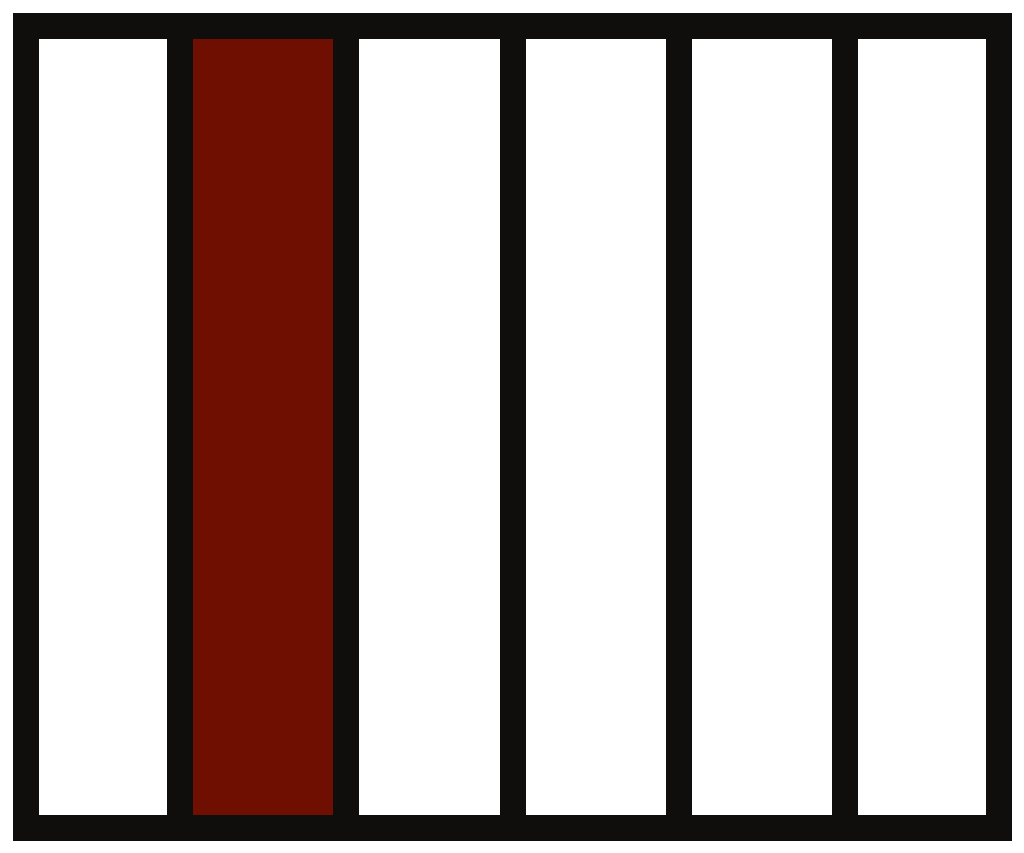
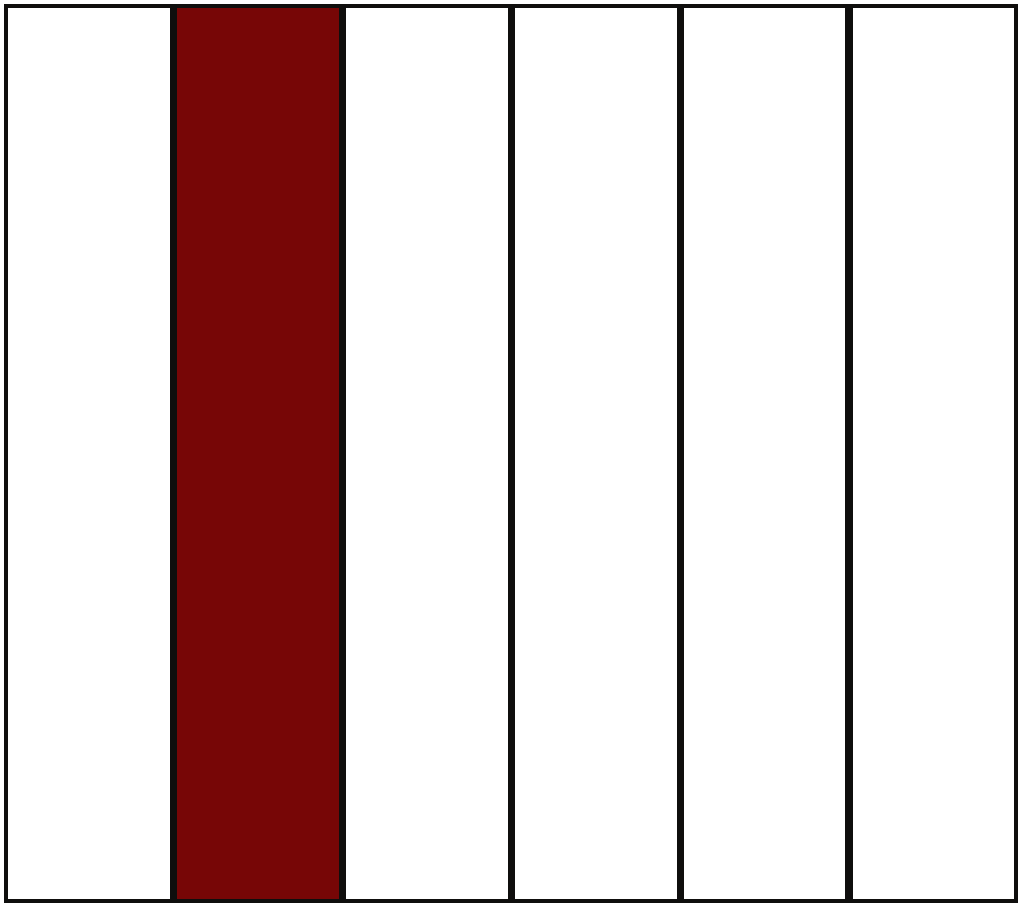
Correct the mark to match the real artwork
Nick supplied the source SVG, which showed my earlier reconstruction was wrong
in three ways. Measured off the artwork rather than inferred:

- Aspect ratio is 1.127:1, not the 1.2:1 taken from the old CSS — a 6.5% error.
  Applied to the nav, hero and quote marks.
- The mark is six separate stroked rectangles, not one box with single internal
  dividers. Adjacent strokes double up, so the internal lines read heavier than
  the outer edge. The CSS now gives each bar its own border to match.
- The brand red is #770606, not the #6F0F01 the site was using.

brand/mark-source.svg is the artwork as exported and is the source of truth;
every other asset is derived from its coordinates. Removed the earlier
wrong-geometry files rather than leaving them to be picked up by mistake.

The favicon is redrawn at the correct proportions with the stroke thickened, as
the artwork's 3px stroke is 0.37% of its width and would vanish at 16px.

Two things the artwork raises, noted in the README rather than decided here: the
artwork strokes are #FEFEFE while the site's --paper is the warmer #F4EFE6, and
the stroke weight cannot scale to nav size, so the site's mark is necessarily a
heavier small-size adaptation.

Still outstanding: the source SVG is mark-only, so the lockups await the
wordmark's typeface and tracking.

Claude-Session: https://claude.ai/code/session_01JhBBogzNpLh4f6KTUY3Wqj

Changed region(s): [[0.0, 0.0, 1.0, 1.0]]

diff --git a/index.html b/index.html
@@ -47,7 +47,7 @@
 <style>
 :root{
   --ink:#0F0E0D; --ink-soft:#1A1917; --paper:#F4EFE6;
-  --oxblood:#6F0F01;          /* fills only — 1.6:1 on ink, never use for text */
+  --oxblood:#770606;          /* from the logo artwork. Fills only — never use for text */
   --ember:#D4552F;            /* text + focus accent — 4.72:1 on ink, WCAG AA */
   --line:#332F29; --muted:#9C978C;
   --font-display:'Instrument Sans',sans-serif; --font-body:'Inter',sans-serif;
@@ -72,9 +72,8 @@ h1,h2,h3{font-family:var(--font-display);font-weight:700;letter-spacing:-.02em;l
 .skip:focus{top:16px}
 
 /* BAR DEVICE — six equal bars, only #2 filled oxblood */
-.bars{display:flex;border:1px solid var(--paper)}
-.bars>span{flex:1;border-right:1px solid var(--paper)}
-.bars>span:last-child{border-right:none}
+.bars{display:flex}
+.bars>span{flex:1;border:1px solid var(--paper)}
 .bars>span.lit{background:var(--oxblood)}
 
 .topstrip{position:fixed;top:0;left:0;right:0;height:5px;display:flex;z-index:101}
@@ -91,7 +90,7 @@ h1,h2,h3{font-family:var(--font-display);font-weight:700;letter-spacing:-.02em;l
 .nav.scrolled{background:rgba(15,14,13,.92);backdrop-filter:blur(10px);padding:19px 0 14px;border-bottom:1px solid var(--line)}
 .nav-inner{display:flex;align-items:center;justify-content:space-between;gap:24px}
 .nav-mark{display:flex;align-items:center;gap:12px}
-.nav-mark .bars{width:22px;height:18px;flex:none}
+.nav-mark .bars{width:22px;height:19.5px;flex:none}
 .nav-mark .word{font-family:var(--font-display);font-weight:700;font-size:16px;letter-spacing:-.01em}
 .nav-links{display:flex;align-items:center;gap:34px}
 .nav-links a{font-size:13px;color:rgba(244,239,230,.85);transition:color .15s ease}
@@ -121,7 +120,7 @@ h1,h2,h3{font-family:var(--font-display);font-weight:700;letter-spacing:-.02em;l
 .hero-video .poster{position:absolute;inset:0;background-color:#181613;background-image:radial-gradient(90% 70% at 50% 0%,#181613 0%,var(--ink) 60%),url("media/hero-poster.jpg");background-size:cover,cover;background-position:center,center;background-blend-mode:normal}
 .hero-overlay{position:absolute;inset:0;background:linear-gradient(180deg,rgba(15,14,13,.5) 0%,rgba(15,14,13,.3) 42%,rgba(15,14,13,.8) 100%)}
 .hero-inner{position:relative;z-index:2;text-align:center;max-width:900px;margin:0 auto}
-.hero .bars{width:120px;height:100px;margin:0 auto 40px}
+.hero .bars{width:120px;height:106.5px;margin:0 auto 40px}
 .hero h1{font-size:clamp(2.6rem,7vw,5.2rem);margin-bottom:28px}
 .hero .lede{color:#C9C4BA;font-size:clamp(1rem,1.6vw,1.2rem);max-width:46ch;margin:0 auto 44px}
 .hero-ctas{display:flex;gap:14px;justify-content:center;flex-wrap:wrap}
@@ -168,7 +167,7 @@ section{position:relative;border-top:1px solid var(--line)}
 
 /* QUOTE */
 .quote-box{max-width:820px;margin:0 auto;text-align:center}
-.quote-box .mark{width:44px;height:36px;margin:0 auto 24px}
+.quote-box .mark{width:44px;height:39px;margin:0 auto 24px}
 .quote-box blockquote{font-family:var(--font-display);font-weight:600;font-size:clamp(1.3rem,2.8vw,1.9rem);line-height:1.4;letter-spacing:-.01em;margin-bottom:26px}
 .quote-box figcaption{font-size:13px;letter-spacing:.06em;color:var(--muted)}
 .quote-box figcaption b{color:var(--paper);font-weight:600}

diff --git a/films.html b/films.html
@@ -18,7 +18,7 @@
 <link rel="preconnect" href="https://fonts.gstatic.com" crossorigin>
 <link href="https://fonts.googleapis.com/css2?family=Instrument+Sans:wght@600;700&family=Inter:wght@400;600&display=swap" rel="stylesheet">
 <style>
-:root{--ink:#0F0E0D;--paper:#F4EFE6;--oxblood:#6F0F01;--ember:#D4552F;--line:#332F29;--muted:#9C978C;
+:root{--ink:#0F0E0D;--paper:#F4EFE6;--oxblood:#770606;--ember:#D4552F;--line:#332F29;--muted:#9C978C;
   --font-display:'Instrument Sans',sans-serif;--font-body:'Inter',sans-serif;--wrap:1180px}
 *{margin:0;padding:0;box-sizing:border-box}
 body{font-family:var(--font-body);background:var(--ink);color:var(--paper);line-height:1.6;-webkit-font-smoothing:antialiased;min-height:100svh;display:flex;flex-direction:column}
@@ -30,9 +30,8 @@ a{color:inherit;text-decoration:none}
 .topstrip{height:5px;display:flex}
 .topstrip>span{flex:1;background:var(--ink)}
 .topstrip>span.lit{background:var(--oxblood)}
-.bars{display:flex;border:1px solid var(--paper);width:22px;height:18px;flex:none}
-.bars>span{flex:1;border-right:1px solid var(--paper)}
-.bars>span:last-child{border-right:none}
+.bars{display:flex;width:22px;height:19.5px;flex:none}
+.bars>span{flex:1;border:1px solid var(--paper)}
 .bars>span.lit{background:var(--oxblood)}
 .nav{padding:22px 0;border-bottom:1px solid var(--line)}
 .nav-inner{display:flex;align-items:center;justify-content:space-between;gap:24px;flex-wrap:wrap}

diff --git a/README.md b/README.md
@@ -115,11 +115,25 @@ Generated from the same geometry as the site's mark, so they can't drift from it
 
 | file | use |
 |---|---|
-| `mark-light.svg` / `-512.png` / `-1024.png` | dark backgrounds — the site, dark decks, film slates |
-| `mark-dark.svg` / `-512.png` / `-1024.png` | **light backgrounds** — email signatures, invoices, white listing decks, print |
+| `mark-source.svg` | the original artwork, exactly as exported. Source of truth. |
+| `mark.svg` / `mark-512.png` / `mark-1024.png` | dark backgrounds — site, dark decks, film slates |
+| `mark-dark.svg` / `mark-dark-512.png` / `-1024.png` | **light backgrounds** — email signatures, invoices, white listing decks, print |
 
-The dark-background-only logo you had would vanish on anything white; `mark-dark` is that gap closed.
+All derived from `mark-source.svg`, so they cannot drift from it.
 
-**Still to come:** the horizontal and vertical lockups (mark + "SALA NERA"). Those need the
-wordmark's typeface, weight and tracking from the original Photoshop file — without them the
-letterspacing would be a guess rather than your design.
+**Brand values, taken from the artwork:**
+- Mark aspect ratio **1.127:1** (six bars, second one filled)
+- Red **#770606**
+- Stroke **#FEFEFE**
+
+Note the site's `--paper` is **#F4EFE6** (warm cream) while the artwork strokes are **#FEFEFE**
+(neutral white). The site currently draws the mark in `--paper` so it matches the surrounding
+type. Switching it to #FEFEFE would be more literally on-brand but slightly colder than
+everything around it — an open call.
+
+The artwork's 3px stroke is 0.37% of its width, which at nav size (22px) computes to 0.08px and
+would disappear. The site's mark uses 1px borders instead — necessarily heavier in proportion.
+That is a normal small-size adaptation, but the two are not pixel-identical by construction.
+
+**Still to come:** the horizontal and vertical lockups (mark + "SALA NERA"). The source SVG is
+mark-only, so the wordmark's typeface, weight and tracking are still needed.
